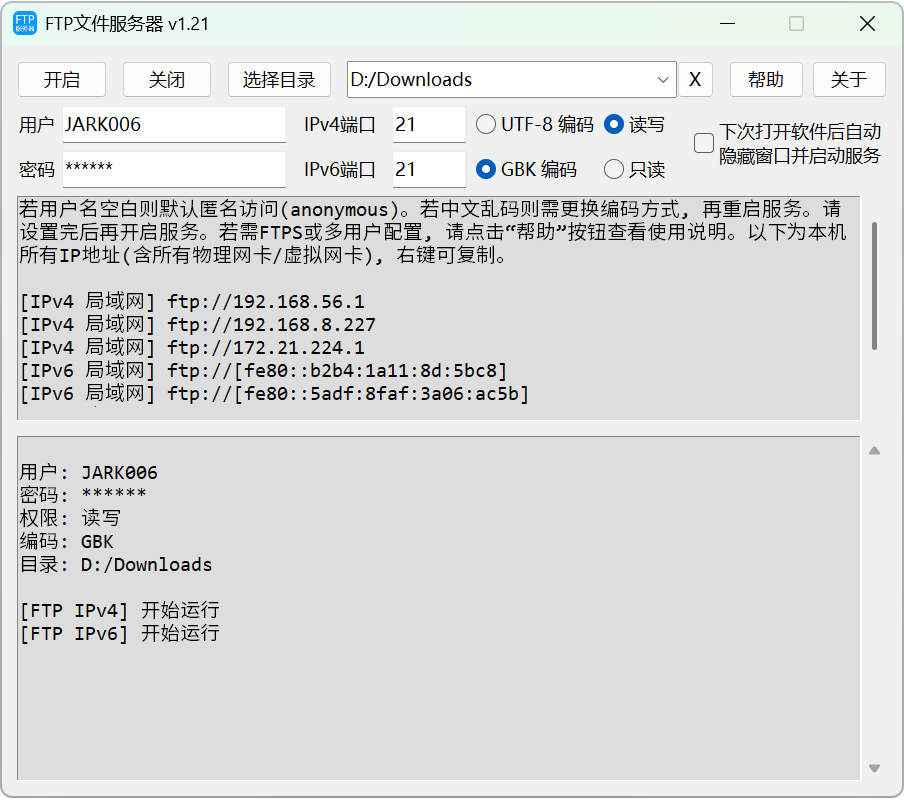
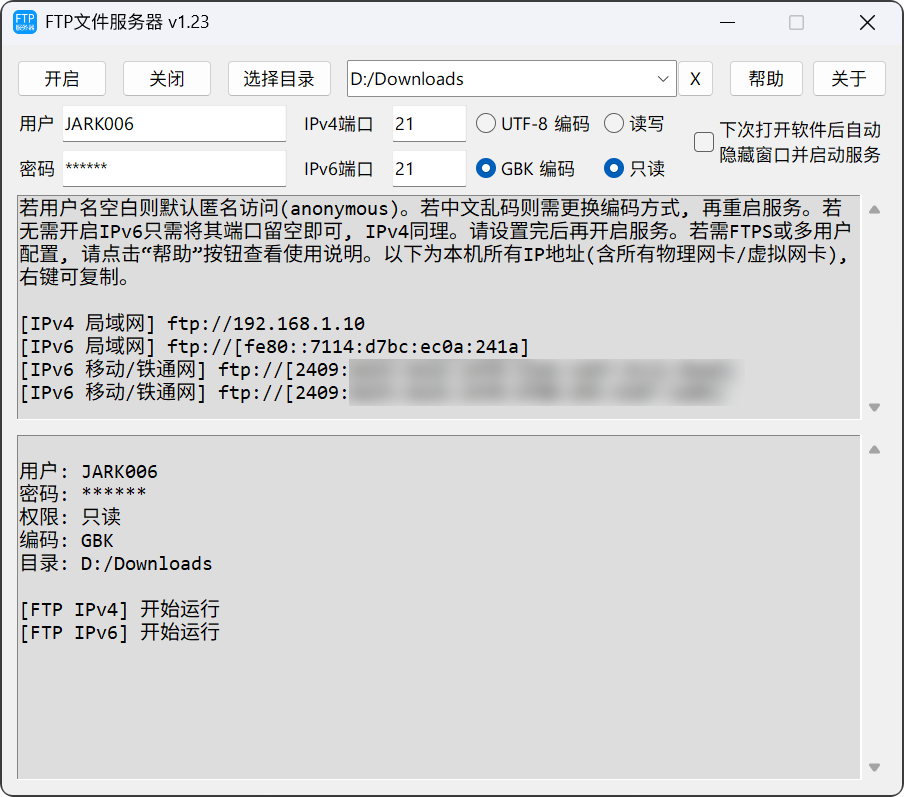
修复默认密码没加密

diff --git a/ftpServer.py b/ftpServer.py
@@ -1,4 +1,4 @@
-"""
+r"""
 FTP Server with GUI Interface
 一个带图形界面的FTP服务器
 
@@ -18,16 +18,12 @@ Copyright (c) 2025 JARK006
 # 在终端中生成SSL证书 (ftpServer.key, ftpServer.crt 有效期100年) 放到程序所在目录则自动启用 FTPS [TLS/SSL显式加密, TLSv1.3]
     openssl req -x509 -newkey rsa:2048 -keyout ftpServer.key -out ftpServer.crt -nodes -days 36500
 
-# 打包 单文件 隐藏终端窗口 以下三选一
+# 打包 单文件 隐藏终端窗口 以下三选一 (第一条和第二条是同一个，第一条执行过一次产生ftpServer.spec后，以后只需执行第二条)
     pyinstaller.exe -F -w .\ftpServer.py -i .\ftpServer.ico --version-file .\file_version_info.txt
     pyinstaller.exe .\ftpServer.spec
-    python -m nuitka .\ftpServer.py --windows-icon-from-ico=.\ftpServer.ico --standalone --lto=yes --enable-plugin=tk-inter --windows-console-mode=disable --company-name=JARK006 --product-name=ftpServer --file-version=1.23.0.0 --product-version=1.23.0.0 --file-description="FtpServer Github@JARK006" --copyright="Copyright (C) 2025 Github@JARK006"
+    python -m nuitka .\ftpServer.py --windows-icon-from-ico=.\ftpServer.ico --standalone --lto=yes --enable-plugin=tk-inter --windows-console-mode=disable --company-name=JARK006 --product-name=ftpServer --file-version=1.24.0.0 --product-version=1.24.0.0 --file-description="FtpServer Github@JARK006" --copyright="Copyright (C) 2025 Github@JARK006"
 
 """
-
-
-import ctypes
-import functools
 
 # 标准库导入
 import os
@@ -36,6 +32,8 @@ import socket
 import sys
 import threading
 import time
+import ctypes
+import functools
 
 # GUI相关导入
 import tkinter as tk
@@ -51,13 +49,14 @@ import win32con
 import Settings
 import UserList
 import myUtils
+
 # 汉化 pyftpdlib 模块导入
 from mypyftpdlib.authorizers import DummyAuthorizer
 from mypyftpdlib.handlers import FTPHandler, TLS_FTPHandler
 from mypyftpdlib.servers import ThreadedFTPServer
 
 appLabel = "FTP文件服务器"
-appVersion = "v1.23"
+appVersion = "v1.24"
 appAuthor = "JARK006"
 githubLink = "https://github.com/jark006/FtpServer"
 releaseLink = "https://github.com/jark006/FtpServer/releases"
@@ -298,7 +297,7 @@ def updateSettingVars():
         userPasswordVar.set("******")
 
     try:
-        IPv4PortInt = (0 if IPv4PortVar.get() == "" else int(IPv4PortVar.get()))
+        IPv4PortInt = 0 if IPv4PortVar.get() == "" else int(IPv4PortVar.get())
         if 0 <= IPv4PortInt and IPv4PortInt < 65536:
             settings.IPv4Port = IPv4PortInt
         else:
@@ -313,7 +312,7 @@ def updateSettingVars():
         IPv4PortVar.set("21")
 
     try:
-        IPv6PortInt = (0 if IPv6PortVar.get() == "" else int(IPv6PortVar.get()))
+        IPv6PortInt = 0 if IPv6PortVar.get() == "" else int(IPv6PortVar.get())
         if 0 <= IPv6PortInt and IPv6PortInt < 65536:
             settings.IPv6Port = IPv6PortInt
         else:
@@ -341,7 +340,7 @@ class myStdout:  # 重定向输出
 
 
 def copyToClipboard(text: str):
-    if len(text) > 0:    
+    if len(text) > 0:
         win32clipboard.OpenClipboard()
         win32clipboard.EmptyClipboard()
         win32clipboard.SetClipboardData(win32con.CF_UNICODETEXT, text)
@@ -412,9 +411,15 @@ def startServer():
             messagebox.showerror("密码异常", tips)
             print(tips)
             return
-        if (settings.userName == "anonymous" or len(settings.userName) == 0) and settings.isReadOnly == False:
-            print("警告：当前允许【匿名用户】登录，且拥有【写入、修改】文件权限，请谨慎对待。")
-            print("若是安全的内网环境可忽略以上警告，否则【匿名用户】应当选择【只读】权限。")
+        if (
+            settings.userName == "anonymous" or len(settings.userName) == 0
+        ) and settings.isReadOnly == False:
+            print(
+                "警告：当前允许【匿名用户】登录，且拥有【写入、修改】文件权限，请谨慎对待。"
+            )
+            print(
+                "若是安全的内网环境可忽略以上警告，否则【匿名用户】应当选择【只读】权限。"
+            )
     else:
         userNameEntry.configure(state=tk.DISABLED)
         userPasswordEntry.configure(state=tk.DISABLED)
@@ -518,7 +523,7 @@ def serverThreadFun(IP_Family: str):
     if os.path.exists(certFilePath) and os.path.exists(keyFilePath):
         handler = TLS_FTPHandler
         handler.certfile = certFilePath  # type: ignore
-        handler.keyfile = keyFilePath    # type: ignore
+        handler.keyfile = keyFilePath  # type: ignore
         handler.tls_control_required = True
         handler.tls_data_required = True
         print(
@@ -671,14 +676,14 @@ def getTipsAndUrlList():
                 "" if settings.IPv6Port == 21 else (f":{settings.IPv6Port}")
             )
             IPv6FtpUrlList.append(fullUrl)
-            if ipStr.startswith(('fe80', 'fd00')):
+            if ipStr.startswith(("fe8", "fe9", "fea", "feb", "fd")):
                 IPv6IPstr += f"\n[IPv6 局域网] {fullUrl}"
             elif ipStr[:4] == "240e":
                 IPv6IPstr += f"\n[IPv6 电信公网] {fullUrl}"
             elif ipStr[:4] == "2408":
                 IPv6IPstr += f"\n[IPv6 联通公网] {fullUrl}"
             elif ipStr[:4] == "2409":
-                IPv6IPstr += f"\n[IPv6 移动/铁通网] {fullUrl}"
+                IPv6IPstr += f"\n[IPv6 移动铁通公网] {fullUrl}"
             else:
                 IPv6IPstr += f"\n[IPv6 公网] {fullUrl}"
         elif (settings.IPv4Port > 0) and ("." in ipStr):  # IPv4

diff --git a/Settings.py b/Settings.py
@@ -1,8 +1,10 @@
 import os, sys, json, hashlib
-
+from typing import Any
 
 class Settings:
     encryPasswordPrefix = "ENCRY"
+    defaultUserName = "JARK006"
+    defaultUserPassword = "123456"
 
     def __init__(self) -> None:
         self.appDirectory = str(os.path.dirname(os.path.abspath(sys.argv[0]))).replace("\\", "/")
@@ -16,8 +18,8 @@ class Settings:
         self.savePath = os.path.join(self.appDirectory, "ftpServer.json")
 
         self.directoryList: list[str] = [self.appDirectory]
-        self.userName: str = "JARK006"
-        self.userPassword: str = "123456"
+        self.userName: str = Settings.defaultUserName
+        self.userPassword: str = self.encry2sha256(Settings.defaultUserPassword)
         self.IPv4Port: int = 21
         self.IPv6Port: int = 0
         self.isGBK: bool = True
@@ -67,10 +69,10 @@ class Settings:
                 self.directoryList = [self.appDirectory]
                 print(f"directoryList 类型错误，已恢复默认：[{self.appDirectory}]")
             if not type(self.userName) is str:
-                self.userName = "JARK006"
+                self.userName = Settings.defaultUserName
                 print(f"userName 类型错误，已恢复默认：{self.userName}")
             if not type(self.userPassword) is str:
-                self.userPassword = "123456"
+                self.userPassword = self.encry2sha256(Settings.defaultUserPassword)
                 print(f"userPassword 类型错误，已恢复默认：{self.userPassword}")
             if not type(self.IPv4Port) is int:
                 self.IPv4Port = 21
@@ -107,7 +109,7 @@ class Settings:
         while len(self.directoryList) > 20:
             self.directoryList.pop()
 
-        variables: dict[str, any] = {
+        variables: dict[str, Any] = {
             "directoryList": self.directoryList,
             "userName": self.userName,
             "userPassword": self.userPassword,
